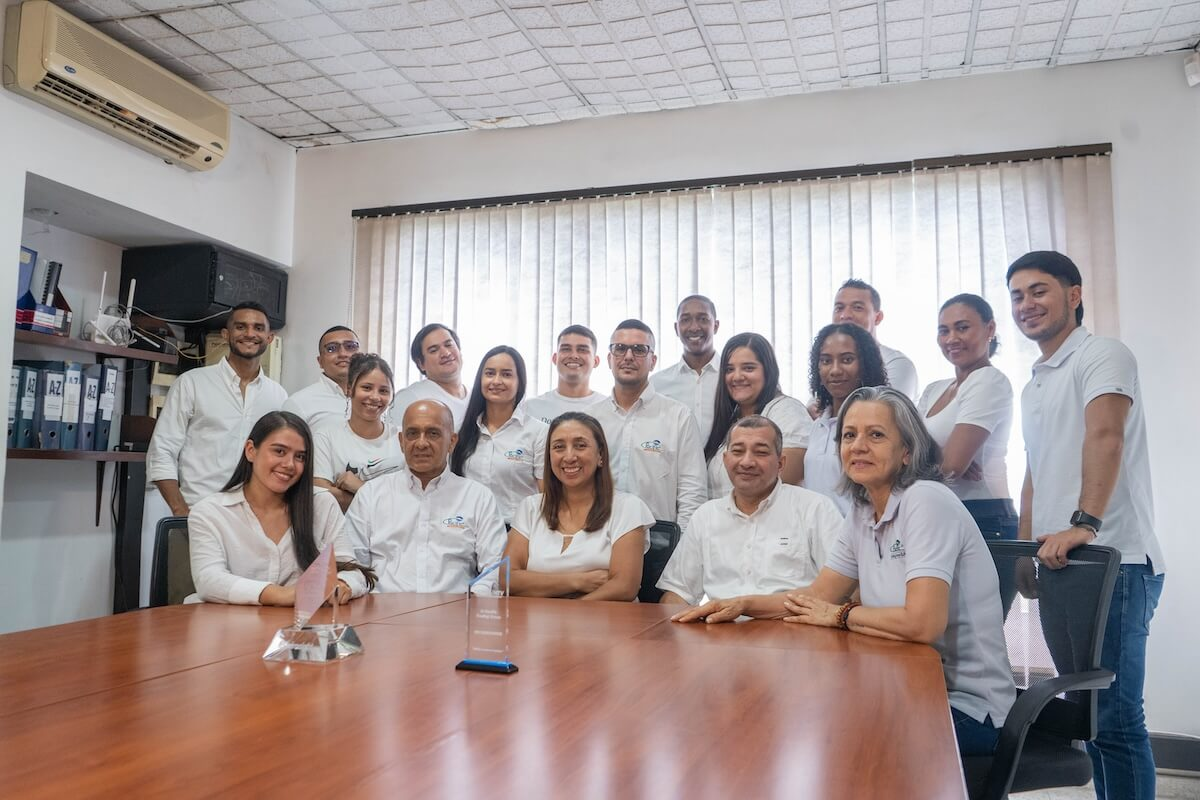
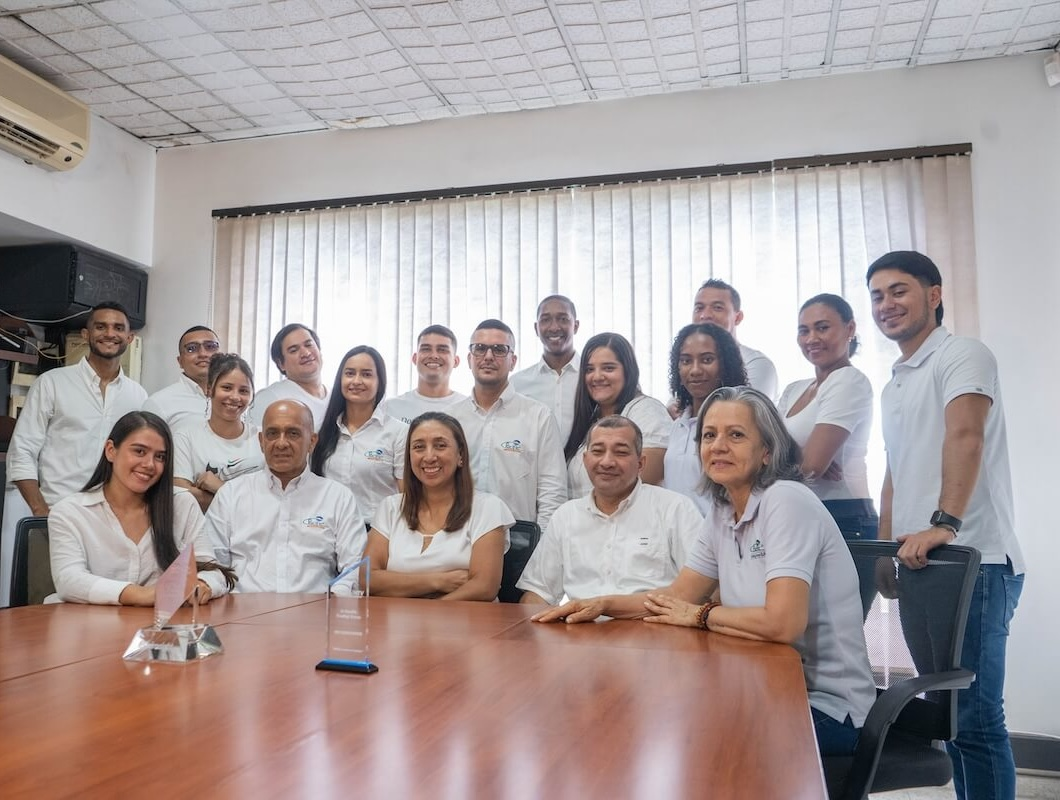
minor fix

diff --git a/templates/servicios/diseno.html b/templates/servicios/diseno.html
@@ -28,7 +28,7 @@
     <div class="row justy-content">
       <div class="col-md-6 solid-color">
         <img
-          src="{{ url_for('static', filename='img/diseno/diseno2.jpg') }}"
+          src="{{ url_for('static', filename='img/diseno/diseno10.jpg') }}"
           class="responsive-image"
         />
       </div>
@@ -78,11 +78,11 @@
             subterráneos, maximizando su vida útil y optimizando recursos 
             financieros y no financieros.
         </h4>
-        <h3 class="txt-left txt-bold txt-title">
+        <!-- <h3 class="txt-left txt-bold txt-title">
           <a href="#see_more3" class="btn-small"
             >VER MÁS</a
           >
-        </h3>
+        </h3> -->
       </div>
       <div class="col-md-6 solid-color">
         <img
@@ -105,7 +105,7 @@
     
 <section id="see_more3"></section>
     <!-- nuevo carrusel -->
-    <div class="carousel-new">
+    <!-- <div class="carousel-new">
         <img src="{{ url_for('static', filename='img/diseno/diseno1.jpg') }}" alt="Imagen 1" class="active">
         <img src="{{ url_for('static', filename='img/diseno/diseno3.jpg') }}" alt="Imagen 2">
         <img src="{{ url_for('static', filename='img/diseno/diseno4.jpg') }}" alt="Imagen 3">
@@ -116,13 +116,13 @@
             <span onclick="currentSlide(3)"></span>
             <span onclick="currentSlide(4)"></span>
         </div>
-    </div>
+    </div> -->
     <!-- fin de carrusel -->
 
 
-    <div class="border-line">
+    <!-- <div class="border-line">
         <img src="{{ url_for('static', filename='img/border.png') }}" alt="" class="w-100">
-    </div>
+    </div> -->
     {% endblock %}
     {% block scripts %}
     <script src="https://code.jquery.com/jquery-3.7.1.js"></script>
